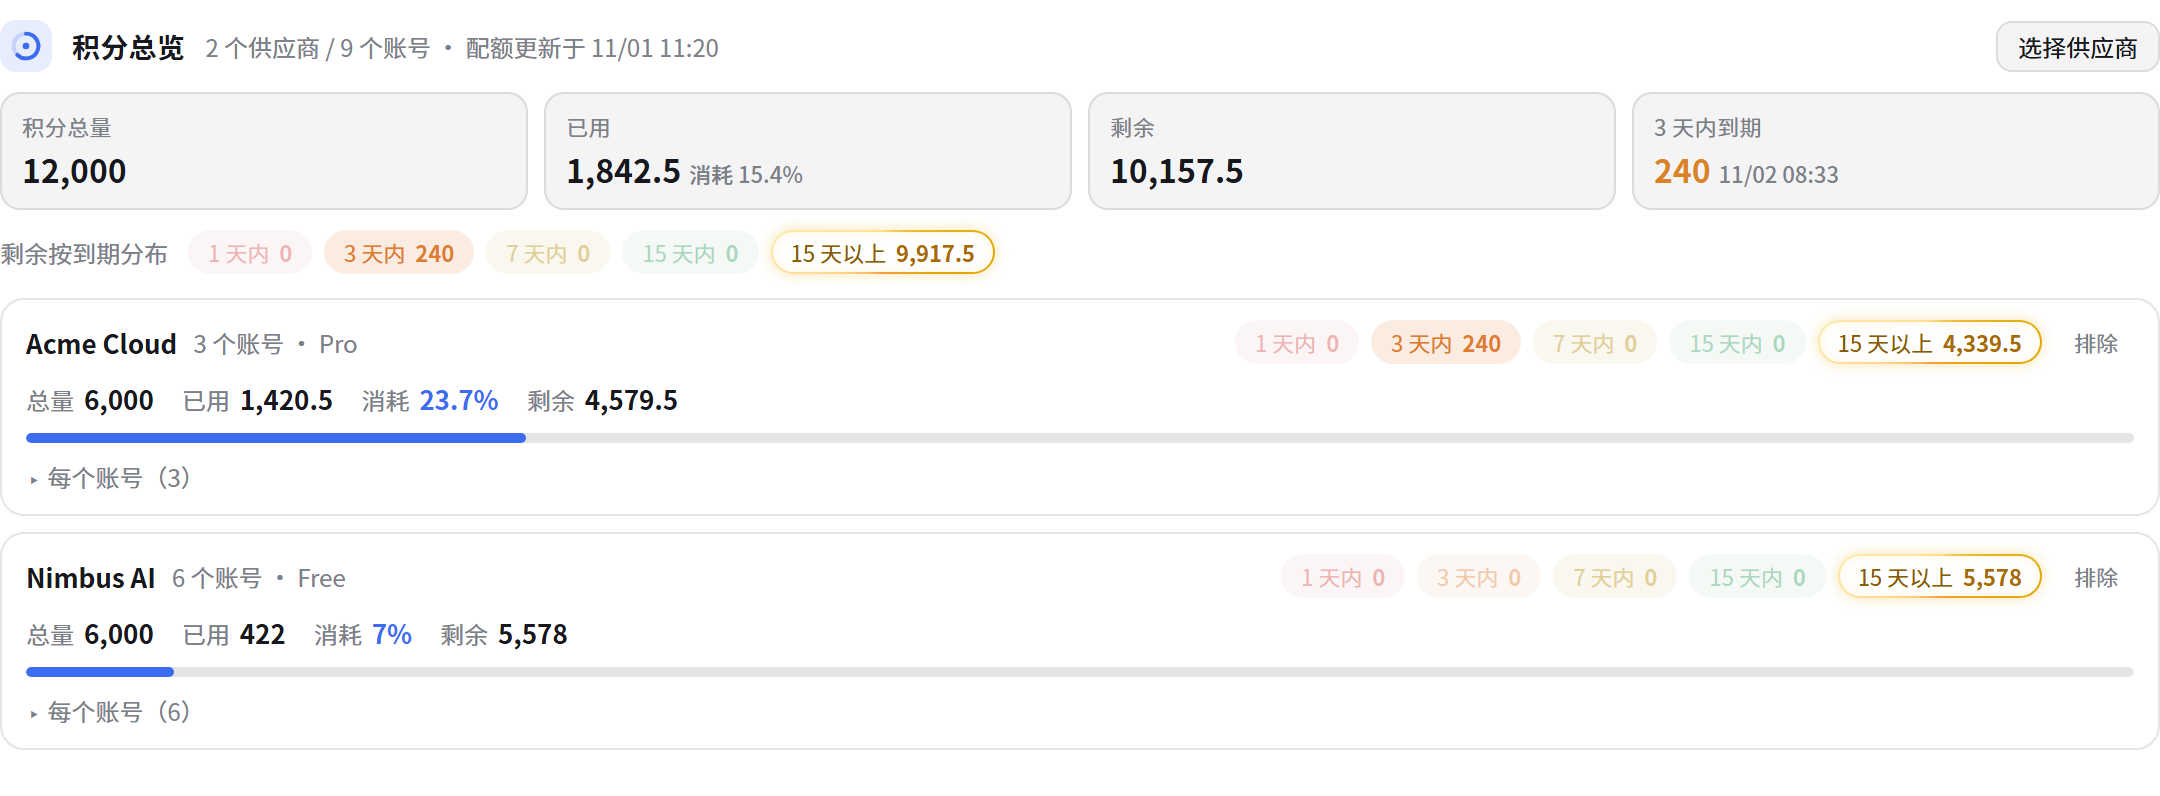
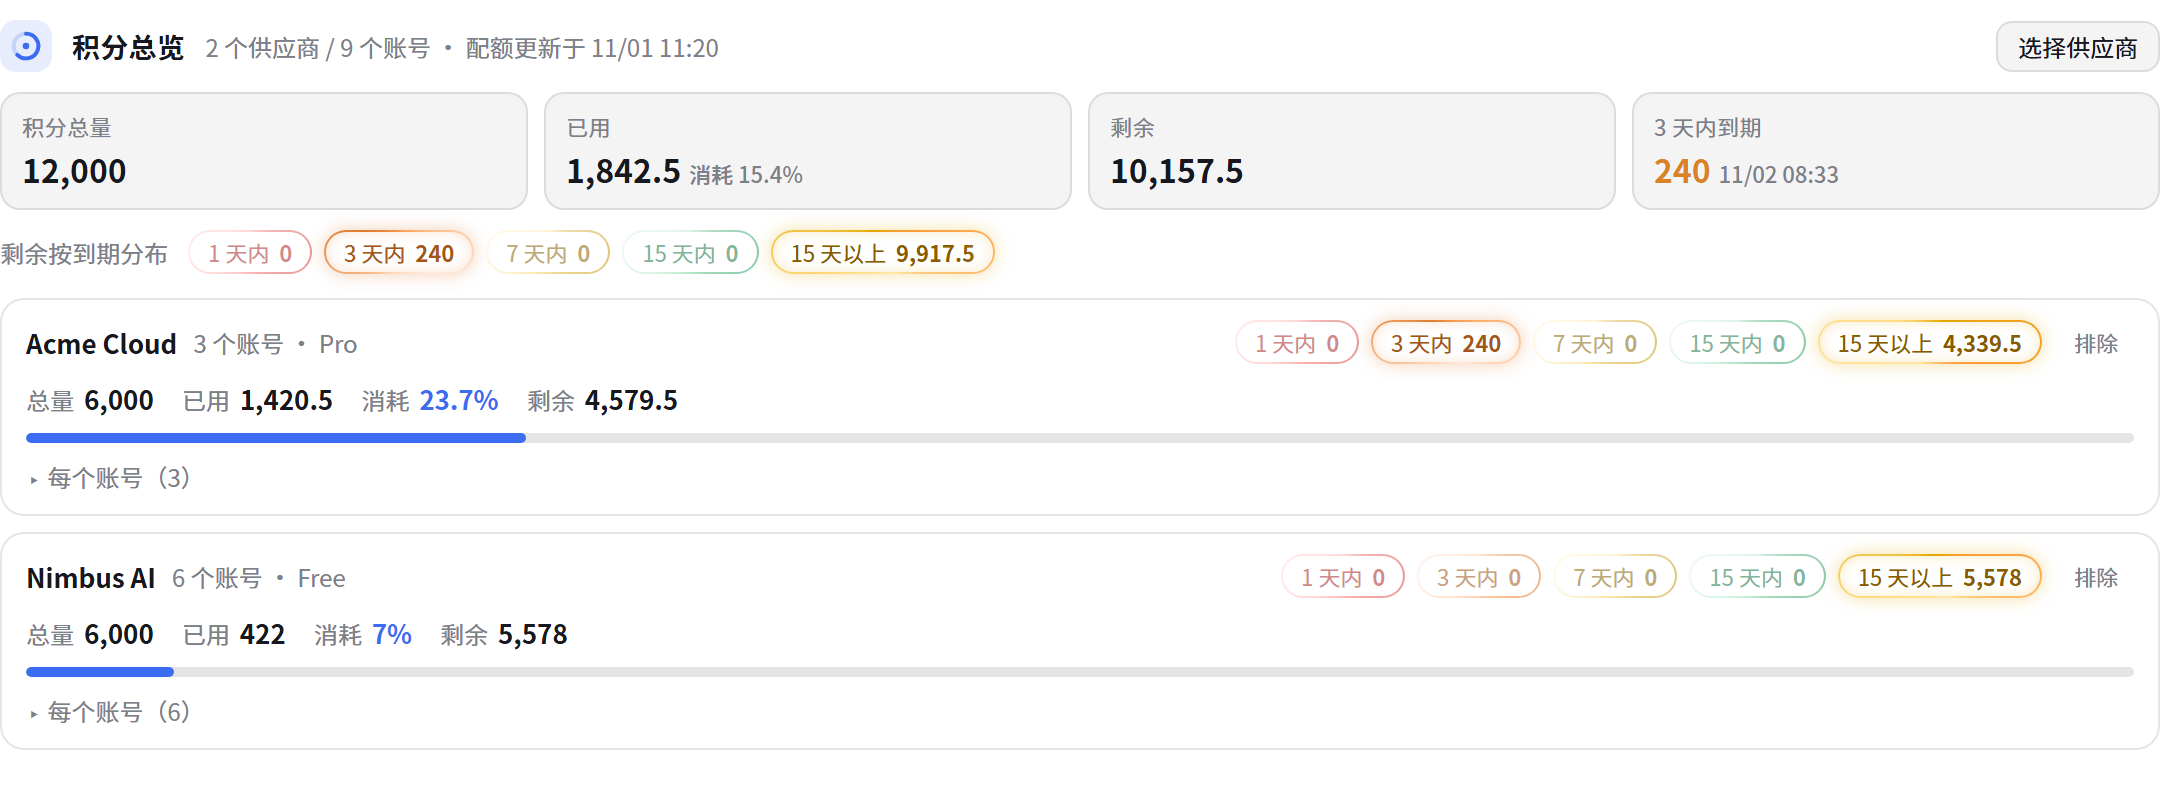
style: one ring style for every bucket, plus a random right-to-left sheen

diff --git a/panel/quota.css b/panel/quota.css
@@ -173,6 +173,8 @@ body {
 }
 
 .bk {
+  position: relative;
+  overflow: hidden;
   display: inline-flex;
   align-items: baseline;
   gap: 5px;
@@ -181,9 +183,41 @@ body {
   font-size: 11px;
   line-height: 18px;
   font-variant-numeric: tabular-nums;
-  background: var(--q-card);
-  color: var(--q-muted);
+  color: var(--ink, var(--q-muted));
   border: 1px solid transparent;
+  background:
+    linear-gradient(var(--q-bg), var(--q-bg)) padding-box,
+    conic-gradient(
+        from var(--bk-angle),
+        var(--c1),
+        var(--c2) 25%,
+        var(--c3) 50%,
+        var(--c4) 75%,
+        var(--c1)
+      )
+      border-box;
+  animation:
+    bk-spin var(--spin, 7s) linear infinite,
+    bk-breathe var(--breathe, 3.4s) ease-in-out infinite;
+  transition:
+    transform 0.15s ease,
+    filter 0.15s ease;
+}
+
+/* 随机流光：从色块右侧扫到左侧 */
+.bk::after {
+  content: '';
+  position: absolute;
+  top: 0;
+  bottom: 0;
+  left: 0;
+  width: 42%;
+  pointer-events: none;
+  background: linear-gradient(90deg, transparent, rgba(255, 255, 255, 0.85), transparent);
+  transform: translateX(240%);
+  opacity: 0;
+  animation: bk-sheen var(--sheen, 6s) linear infinite;
+  animation-delay: var(--sheen-delay, 0s);
 }
 
 .bk b {
@@ -191,24 +225,46 @@ body {
   color: inherit;
 }
 
+/* 五档配色：c1–c4 是描边渐变，ink 是文字，glow 是呼吸光 */
 .bk.d1 {
-  color: #d64545;
-  background: rgba(214, 69, 69, 0.12);
+  --c1: #ffb8b8;
+  --c2: #d64545;
+  --c3: #ff8080;
+  --c4: #ffdede;
+  --ink: #b02a2a;
+  --glow: rgba(214, 69, 69, 0.5);
+  --glow-soft: rgba(214, 69, 69, 0.22);
+  --breathe: 2.6s;
 }
 
 .bk.d3 {
-  color: #e07b2f;
-  background: rgba(224, 123, 47, 0.14);
+  --c1: #ffd3ae;
+  --c2: #e07b2f;
+  --c3: #ffa964;
+  --c4: #ffeadd;
+  --ink: #a5551a;
+  --glow: rgba(224, 123, 47, 0.5);
+  --glow-soft: rgba(224, 123, 47, 0.22);
 }
 
 .bk.d7 {
-  color: #b58900;
-  background: rgba(181, 137, 0, 0.15);
+  --c1: #ffecb8;
+  --c2: #c99612;
+  --c3: #f2c94c;
+  --c4: #fff6d9;
+  --ink: #8a6508;
+  --glow: rgba(201, 150, 18, 0.5);
+  --glow-soft: rgba(201, 150, 18, 0.22);
 }
 
 .bk.d15 {
-  color: #2f9e63;
-  background: rgba(47, 158, 99, 0.13);
+  --c1: #c3ead3;
+  --c2: #2f9e63;
+  --c3: #74d69a;
+  --c4: #e2f7ea;
+  --ink: #1f7a4a;
+  --glow: rgba(47, 158, 99, 0.45);
+  --glow-soft: rgba(47, 158, 99, 0.2);
 }
 
 /* 15 天以上：金色，渐变描边绕圈 + 呼吸光 */
@@ -219,45 +275,35 @@ body {
 }
 
 .bk.later {
-  color: #8a5a00;
-  border: 1px solid transparent;
-  background:
-    linear-gradient(var(--q-bg), var(--q-bg)) padding-box,
-    conic-gradient(
-        from var(--bk-angle),
-        #ffdc86,
-        #e0a800 25%,
-        #ff9d3f 50%,
-        #ffe9a8 75%,
-        #ffdc86
-      )
-      border-box;
-  animation:
-    bk-spin 6s linear infinite,
-    bk-breathe 3.2s ease-in-out infinite;
+  --c1: #ffdc86;
+  --c2: #e0a800;
+  --c3: #ff9d3f;
+  --c4: #ffe9a8;
+  --ink: #8a5a00;
+  --glow: rgba(224, 168, 0, 0.5);
+  --glow-soft: rgba(224, 168, 0, 0.24);
+  --spin: 8s;
 }
 
-.bk.later b {
-  color: #a86a00;
+/* 深色主题只需要把文字提亮 */
+:root[data-theme='dark'] .bk.d1 {
+  --ink: #ff9090;
+}
+
+:root[data-theme='dark'] .bk.d3 {
+  --ink: #ffb168;
+}
+
+:root[data-theme='dark'] .bk.d7 {
+  --ink: #ffd76a;
+}
+
+:root[data-theme='dark'] .bk.d15 {
+  --ink: #7fe0a5;
 }
 
 :root[data-theme='dark'] .bk.later {
-  color: #f0c65a;
-  background:
-    linear-gradient(var(--q-bg), var(--q-bg)) padding-box,
-    conic-gradient(
-        from var(--bk-angle),
-        #ffe9a8,
-        #e0a800 25%,
-        #ff8a4c 50%,
-        #fff3c4 75%,
-        #ffe9a8
-      )
-      border-box;
-}
-
-:root[data-theme='dark'] .bk.later b {
-  color: #ffd873;
+  --ink: #ffd873;
 }
 
 @keyframes bk-spin {
@@ -270,54 +316,54 @@ body {
   0%,
   100% {
     box-shadow:
-      0 0 6px rgba(224, 168, 0, 0.28),
-      inset 0 0 6px rgba(255, 214, 110, 0.18);
+      0 0 5px var(--glow-soft),
+      inset 0 0 5px var(--glow-soft);
   }
   50% {
     box-shadow:
-      0 0 15px rgba(224, 168, 0, 0.55),
-      inset 0 0 10px rgba(255, 214, 110, 0.3);
+      0 0 14px var(--glow),
+      inset 0 0 9px var(--glow-soft);
   }
 }
 
-/* 1 天内：红色缓慢脉冲，提示最紧急 */
-.bk.d1 {
-  animation: bk-pulse 2.6s ease-in-out infinite;
-}
-
-@keyframes bk-pulse {
-  0%,
+@keyframes bk-sheen {
+  0% {
+    transform: translateX(240%);
+    opacity: 0;
+  }
+  3% {
+    opacity: 0.9;
+  }
+  15% {
+    transform: translateX(-260%);
+    opacity: 0;
+  }
   100% {
-    box-shadow: 0 0 0 rgba(214, 69, 69, 0);
+    transform: translateX(-260%);
+    opacity: 0;
   }
-  50% {
-    box-shadow: 0 0 10px rgba(214, 69, 69, 0.45);
-  }
-}
-
-.bk {
-  transition:
-    transform 0.15s ease,
-    filter 0.15s ease;
 }
 
 .bk:hover {
   transform: translateY(-1px);
-  filter: saturate(1.15) brightness(1.03);
+  filter: saturate(1.12) brightness(1.04);
 }
 
 @media (prefers-reduced-motion: reduce) {
   .bk,
-  .bk.later,
-  .bk.d1 {
+  .bk::after {
     animation: none !important;
     transition: none !important;
   }
 }
 
 .bk.zero {
-  opacity: 0.4;
+  opacity: 0.55;
   animation: none !important;
+}
+
+.bk.zero::after {
+  display: none;
 }
 
 .bucket-row {

diff --git a/panel/quota.js b/panel/quota.js
@@ -94,6 +94,10 @@
     for (const [key, label] of BUCKET_LABELS) {
       const n = buckets?.[key] || 0
       const bk = el('span', `bk ${key}${n > 0 ? '' : ' zero'}`)
+      // 每个色块的描边转速、闪光周期与相位都随机，看起来才不是整齐划一
+      bk.style.setProperty('--spin', `${(6 + Math.random() * 5).toFixed(2)}s`)
+      bk.style.setProperty('--sheen', `${(4.5 + Math.random() * 5).toFixed(2)}s`)
+      bk.style.setProperty('--sheen-delay', `${(-Math.random() * 9).toFixed(2)}s`)
       bk.append(el('span', 'k', label), el('b', '', fmt(n)))
       row.append(bk)
     }

diff --git a/README.md b/README.md
@@ -37,7 +37,7 @@
 
 五档相加 **恒等于该供应商的剩余积分**；顶部「剩余」下方也有一行全站合计的同款分档。
 
-色块带动效：`15 天以上` 的金色描边会缓慢绕圈并呼吸发光，`1 天内` 有红色脉冲提示最紧急，鼠标悬停时轻微上浮。系统开启「减少动态效果」（`prefers-reduced-motion`）时会自动关闭全部动画；数值为 0 的档不参与动画。
+五档色块是同一套样式：各自颜色的渐变描边缓慢绕圈 + 呼吸发光；每个色块还会不定时有一道高光**从右向左**扫过（周期与相位随机，所以不会整齐同步）；鼠标悬停时轻微上浮。系统开启「减少动态效果」（`prefers-reduced-motion`）时全部动画关闭；数值为 0 的档淡化显示且不参与动画。
 
 口径说明：magpie 的 `auth.usage` 只给出「最快作废的那一批」的时刻（`runsOutAt`）与周期重置时刻（`resetsAt`），没有逐批到期明细，所以除那一批之外的剩余积分统一归入「15 天以上」，这样各档之和不会与剩余积分对不上。
 
